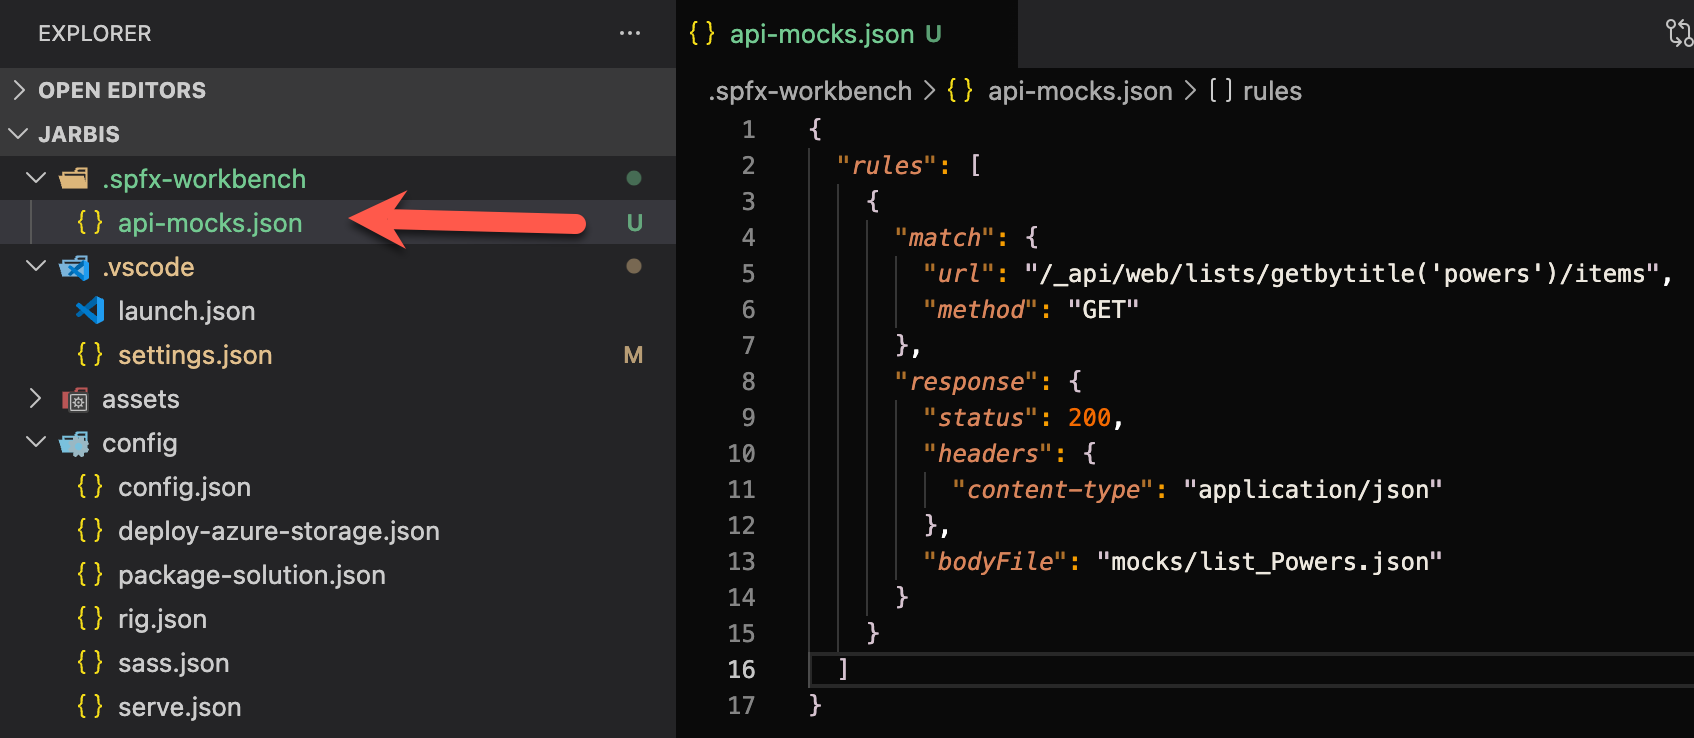
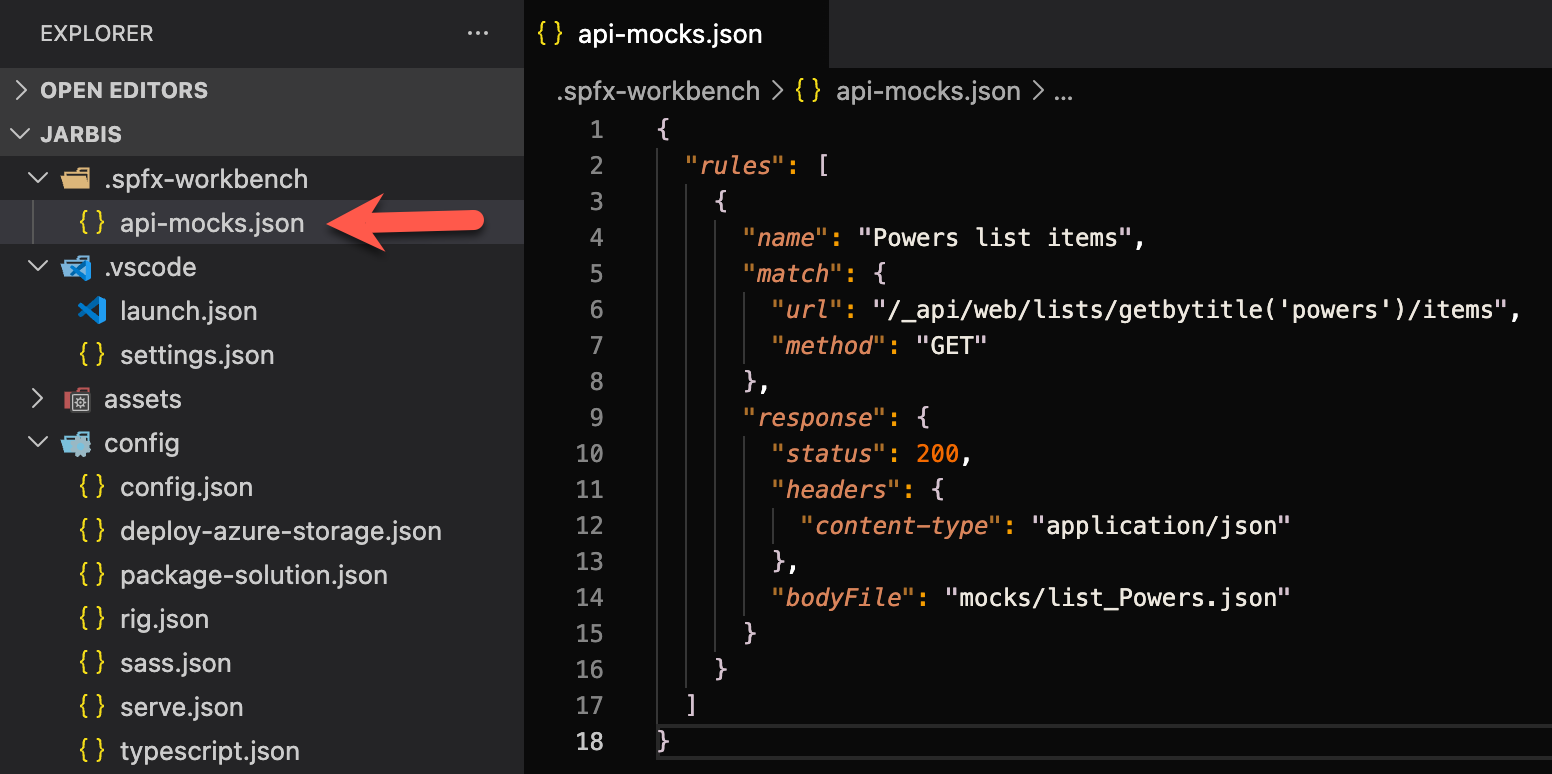
Lab 08 updates for MockRule.name

Changed region(s): [[0.0, 0.0, 1.0, 1.0], [0.0, 0.0312, 0.0928, 0.0623]]

diff --git a/Lab08/README.md b/Lab08/README.md
@@ -730,6 +730,12 @@ The SPFx Local Workbench mocking engine helpfully provides several helpful helpe
 
 1. In the file picker, select the **list_Powers.json** file in the **mocks** directory.
 
+1. Enter `Powers list items` for the Rule name:
+
+    ![Rule name](assets/spfxlocalworkbenchmockdatarulename.png)
+
+    > :bulb: The rule name is optional and is mostly used for identifying which rule was matched to a response in the output logs. If you don't provide it, the URL Pattern will be used instead. But it's typically a good idea to provide a name. Makes it easier to read the logs and to maintain your rules as your project grows.
+
 1. Type `/_api/web/lists/getbytitle('powers')/items` for the URL Pattern and press <kbd>Enter</kbd>:
 
     ![URL Pattern](assets/spfxlocalworkbenchmockdataurlpattern.png)
